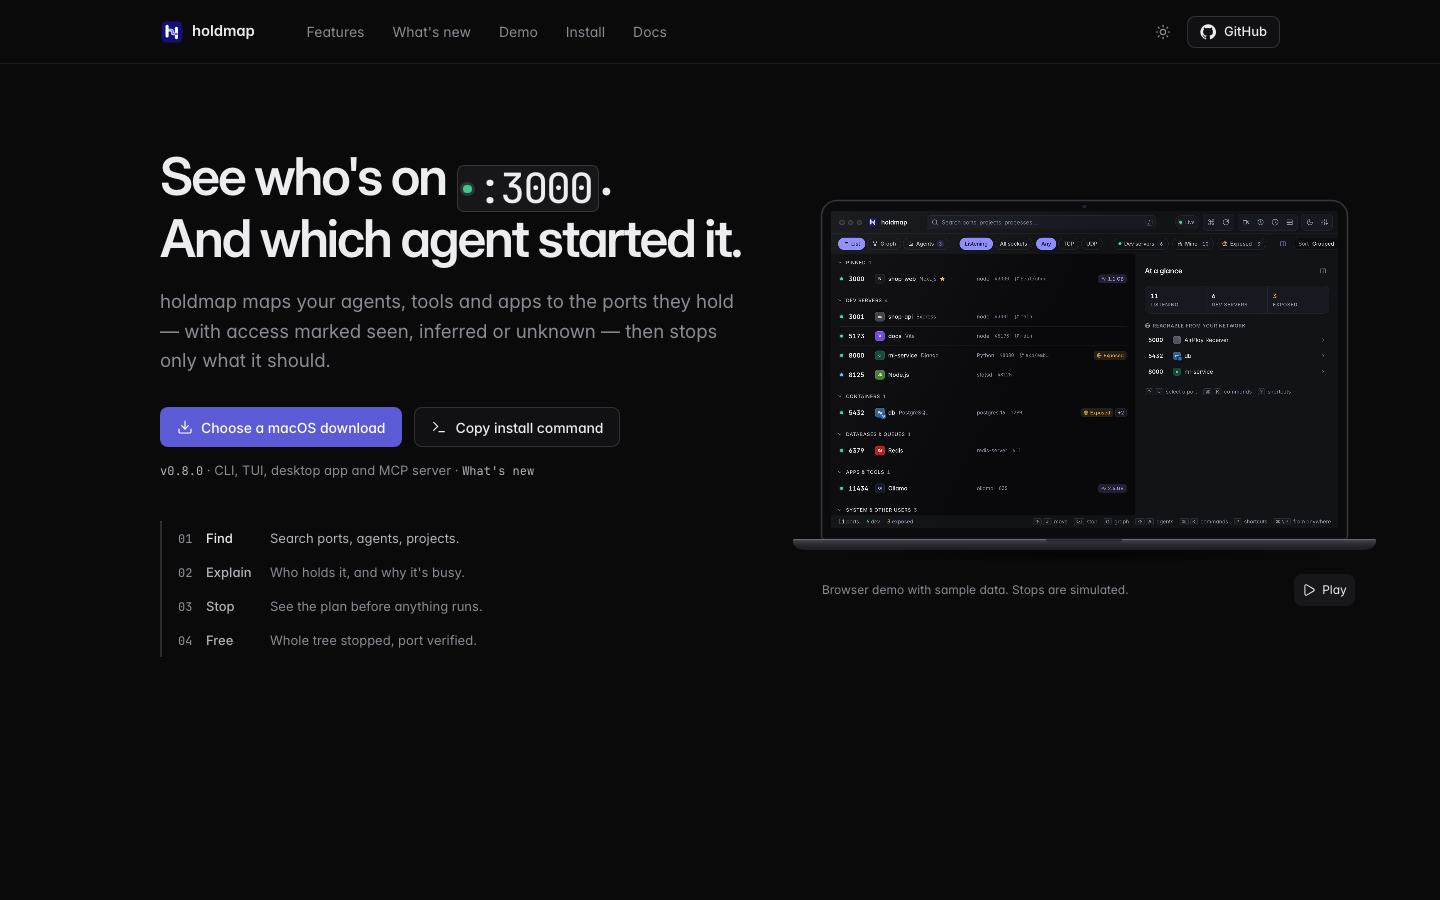
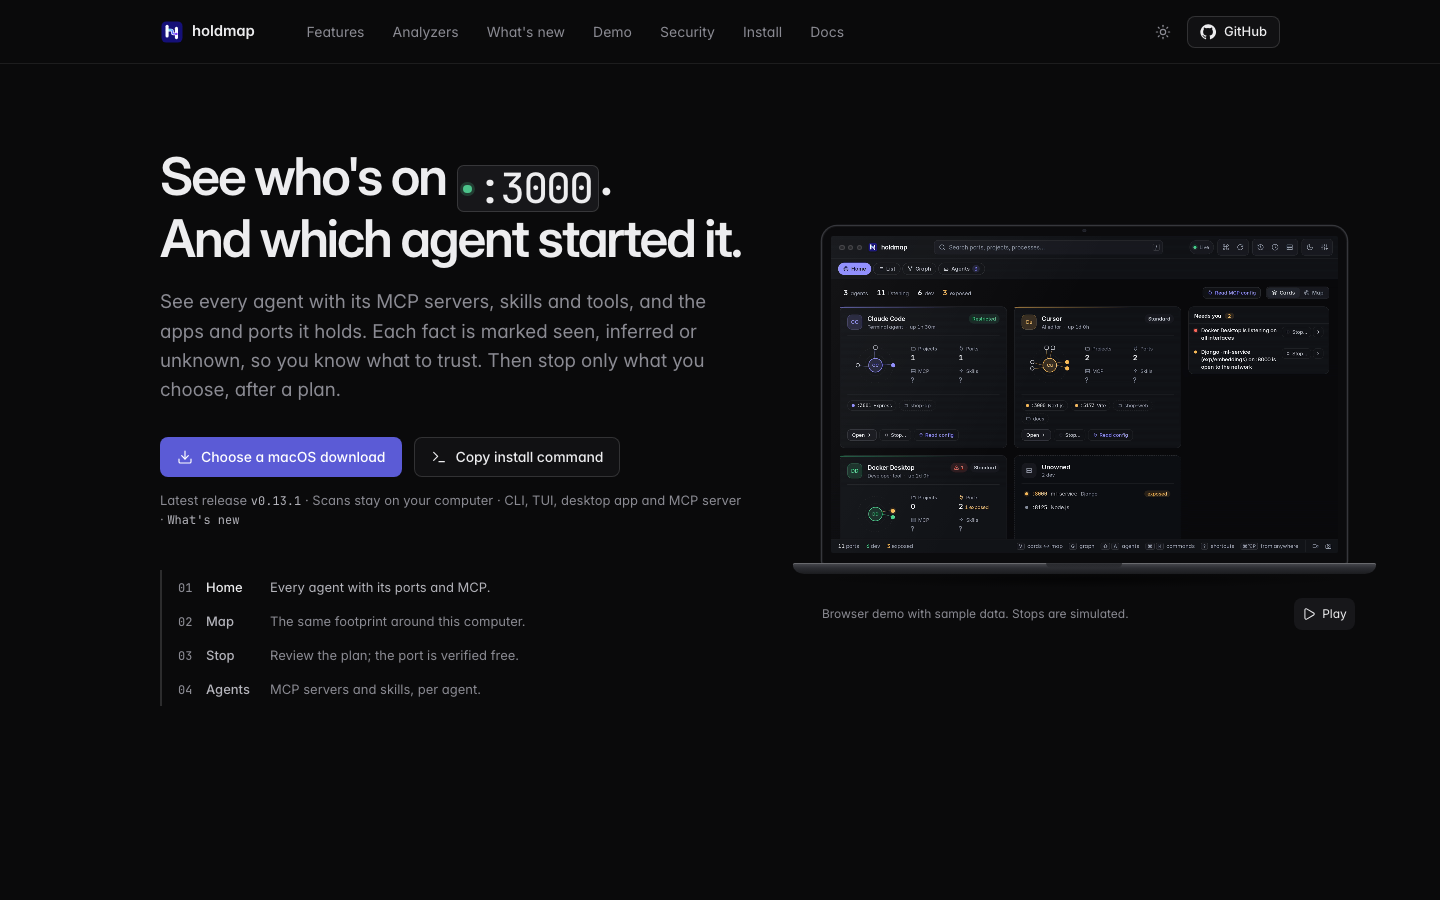
docs: align README and website with published 0.13.1

diff --git a/README.md b/README.md
@@ -34,6 +34,10 @@
 </p>
 
 <p align="center">
+  <img src="docs/screenshots/desktop-home-3d-light.png" width="860" alt="holdmap Home in 3D: agent districts with CPU and memory readings, runtime and configuration layers, and Needs you (sample data)" />
+</p>
+
+<p align="center">
   <img src="docs/screenshots/desktop-capability-inline-light.png" width="420" alt="MCP & skills: a skill card's details open inline right under it, with Scan with… (sample data)" />
   <img src="docs/screenshots/desktop-security-analyzers-light.png" width="420" alt="Agents → Security → Analyzers: cards with publisher, what each checks, on/off or installed state and one action; all off by default (sample data)" />
 </p>
@@ -63,16 +67,17 @@
   Add any MCP server in three steps: source, tools, review.
 - **Home, maps and graphs.** Agents as Cards or a Map with a Timeline and a **Needs you**
   list, the service graph with clusters, and agent flow.
-- **3D machine (Unreleased).** Home's **3D** layout builds the same agents as a model you can
+- **3D machine.** Home's **3D** layout builds the same agents as a model you can
   take apart: a district per agent with its tower, folders and ports, its processes and the
   configuration found on disk on trays above it, CPU gauges, network ripples and connections that
   move their way. Lenses show one concern at a time, with X-ray, a floor plan and a guided tour.
   Every link comes from what holdmap observed; nothing is joined by name.
-- **Menu bar and tray widget (Unreleased).** Small menu-bar items on macOS like a system
+- **Menu bar and tray widgets.** Small menu-bar items on macOS like a system
   monitor's (agents, what needs you, their CPU, dev servers, a CPU line or per-agent bars) and a
   badge on every OS. A click opens a panel: headline numbers, an agent CPU chart, a Needs you
   history, ports and port changes, and your dev servers and busiest agents. macOS, Windows and
-  Linux; stops still open the reviewed plan.
+  Linux. A fixed toolbar keeps **Open holdmap**, **Quick settings**, **Refresh** and **Quit**
+  within reach while readings scroll; stops still open the reviewed plan.
 - **Local capture.** Records only the holdmap window to MP4/GIF, plus PNG snapshots, of the whole window or a part you choose. Other apps and your desktop are never captured. Nothing is uploaded.
 - **Scriptable.** Every read command takes `--json`. holdmap has no product analytics.
 
@@ -267,8 +272,9 @@ See [SECURITY.md](SECURITY.md) for the full model, limits and how to report a vu
 
 ## Benchmarks & evaluation
 
-Measured on a Linux VM (8 vCPU Xeon, Debian 13). A Mac or Windows PC will differ, so rerun
-the scripts on yours. Details, the environment and how to reproduce are in
+Historical baseline measured with source version **0.9.0** on a Linux VM (8 vCPU Xeon,
+Debian 13); download sizes below are from **v0.9.0**, not the current release.
+A Mac or Windows PC will differ, so rerun the scripts on yours. Details, the environment and how to reproduce are in
 [docs/benchmarks.md](docs/benchmarks.md).
 
 | Measurement | Result |
@@ -303,7 +309,8 @@ scanners are on real skills.
 | [Agents, tools and apps](https://santoshshinde2012.github.io/holdmap/docs/agents/) | Agent inventory, MCP and skills, flow and recording |
 | [Analyzers](https://santoshshinde2012.github.io/holdmap/docs/analyzers/) | Opt-in scanners, presets, sandboxes and findings |
 | [Analyzers, end to end](docs/analyzers.md) | Steps to follow, a 3-minute demo and every screen |
-| [Desktop app](https://santoshshinde2012.github.io/holdmap/docs/desktop/) | Home, graph, shortcuts, capture and first open |
+| [Desktop app](https://santoshshinde2012.github.io/holdmap/docs/desktop/) | Home in Cards, Map or 3D, tray widgets, quick settings, capture and first open |
+| [What's new](https://santoshshinde2012.github.io/holdmap/docs/whats-new/) | Published release highlights and how to upgrade |
 | [MCP for AI agents](https://santoshshinde2012.github.io/holdmap/docs/mcp/) | Client setup, tools and stop confirmation |
 | [Project stacks](https://santoshshinde2012.github.io/holdmap/docs/projects/) | `.holdmap.toml`, `holdmap up` and `down` |
 | [Troubleshooting](https://santoshshinde2012.github.io/holdmap/docs/troubleshooting/) | PATH, hidden ports, updates, environment variables and uninstalling |

diff --git a/site/README.md b/site/README.md
@@ -17,7 +17,8 @@ GitHub Pages project sites cannot publish the host-root `robots.txt`: a file at
 or the sitemap can be submitted directly in Search Console. Search Console submission and
 indexing status are separate from this repository's build and deployment.
 
-With Node.js 22.12 or newer, install both the desktop and site dependencies, then run:
+With Node.js 22.23.4 or newer (the version in `.nvmrc`), install both the desktop and site
+dependencies, then run:
 
 ```sh
 cd apps/desktop
@@ -80,8 +81,9 @@ deployment identity or publish files.
 
 These captures show a production-mode website build at 1440×900, with a 390×900 mobile guide
 view. Release highlights use 1440×1100 desktop and 390×1800 mobile captures so all three cards
-and the publication note fit in one image. The release captures were taken while 0.9.0 was
-being prepared, so they show its pending status. The homepage's sample-data recording is paused on its first frame; no machine is scanned.
+and the publication note fit in one image. The captures show the published 0.13.1 release,
+including 3D Home, tray widgets and area capture. The homepage's sample-data recording is
+paused on its first frame; no machine is scanned.
 After building the site, refresh them with `node scripts/capture-screenshots.mjs` from `site/`.
 The script manages its own preview server and Chromium, waits for content and fonts, and checks
 themes, page errors, overflow and a 600 KB budget for each PNG.
@@ -97,11 +99,11 @@ Homepage, light:
 
 Release highlights and publication status, dark:
 
-![Release highlights show PNG snapshots, the readable graph and capability explorer with pending installer status](../docs/screenshots/site-release-dark.png)
+![Published 0.13.1 highlights show 3D Home, tray widgets and precise area capture](../docs/screenshots/site-release-dark.png)
 
 Release highlights and publication status, light:
 
-![Light-theme release highlights keep the pending release status separate from the published downloads](../docs/screenshots/site-release-light.png)
+![Light-theme 0.13.1 highlights link to the published release notes](../docs/screenshots/site-release-light.png)
 
 Mobile release highlights, light:
 

diff --git a/site/src/content/docs/whats-new.md b/site/src/content/docs/whats-new.md
@@ -10,8 +10,9 @@ notes for each version.
 
 ## 0.13.1
 
-The 0.13.0 tag was not published because its macOS release runner was retired. **0.13.1**
-uses supported runners and ships all the features and security fixes prepared for that tag.
+**0.13.1** is the first published release after 0.12.0. It includes the analyzer fixes
+prepared for 0.12.1 and all the features and security fixes prepared for 0.13.0; neither
+intermediate version was published.
 
 **holdmap 0.13.1** adds new ways to understand your agents and focus your workspace.
 
@@ -27,18 +28,13 @@ uses supported runners and ships all the features and security fixes prepared fo
   are remembered.
 - **Capture part of the window.** Draw or select an area for a local PNG or recording, move
   and resize it precisely, and review before saving. [Snapshots](../desktop/#take-a-png-snapshot).
-- **Security and polish.** The build replaces vulnerable deepmerge tooling; map labels settle
-  before showing, fresh menus close with Escape, and theme choices stay readable.
-
-## 0.12.1
-
-**holdmap 0.12.1** is a small fix release.
-
-- **Nothing to check is not a failure.** OSV with no pinned packages, and skill analyzers with no
-  skills, now finish cleanly with a short note on what to add. Real failures still show as
-  failures. [Analyzers](../analyzers/).
-- **MCP tool annotations are documented.** Each tool's description and four safety hints live in
-  one catalog file; see [MCP](../mcp/#tool-annotations). The tool list is unchanged.
+- **Analyzer fixes.** OSV with no pinned packages, and skill analyzers with no skills, finish
+  cleanly with a short note on what to add. Real failures still show as failures.
+  [Analyzers](../analyzers/).
+- **MCP tool annotations are documented.** Each tool's description and four safety hints live
+  in one catalog file; the sixteen-tool list is unchanged. [MCP](../mcp/#tool-annotations).
+- **Security and polish.** The build patches Windows updater ZIP parsing and replaces vulnerable
+  deepmerge tooling; map labels settle before showing, fresh menus close with Escape, and theme choices stay readable.
 
 ## 0.12.0
 

diff --git a/site/src/content/docs/desktop.md b/site/src/content/docs/desktop.md
@@ -16,7 +16,7 @@ Release-by-release changes are in [What's new](../whats-new/) and the
 ## Home and first open
 
 **Home** shows agents, listening ports, dev servers, exposed listeners and running MCP servers,
-as **Cards**, a **Map** or, in the current source (**Unreleased**), **3D**. Choose at the top
+as **Cards**, a **Map** or **3D** (available since 0.13.1). Choose at the top
 right or press `V` to cycle; the choice is remembered. Cards list each agent's projects, ports,
 MCP servers and skills; Map draws the same footprint around this computer with a collapsible
 **Timeline**. **Needs you** lists agents on all interfaces, root or elevated access, risky
@@ -31,7 +31,7 @@ Every panel on Home folds away and comes back, and Home remembers how you left i
 header), and each panel in it (click its heading). In 3D the parts list folds to a strip of
 agent buttons.
 
-**Current source (Unreleased):** **3D** builds the same machine as a model you can take apart,
+**3D** builds the same machine as a model you can take apart,
 drawn without perspective, so sizes and spacing read the same at the front and the back. Each
 agent has its own **district** on the board, a street apart from the next: its tower at the
 back, the folders it works in, then the ports it holds along the front edge, with its name on a
@@ -126,7 +126,7 @@ and clicking the Dock icon reopens the same window.
 
 ## Menu bar and tray
 
-**Current source (Unreleased):** holdmap's menu-bar or tray icon works like a small system
+holdmap's menu-bar or tray icon works like a small system
 monitor for your agents and dev servers, on macOS, Windows and Linux.
 
 - **Menu-bar items.** On macOS each reading is its own small menu-bar item, a short label over

diff --git a/CHANGELOG.md b/CHANGELOG.md
@@ -6,6 +6,12 @@ by [release-please](https://github.com/googleapis/release-please) from
 [Conventional Commits](https://www.conventionalcommits.org/en/v1.0.0/); see
 [Releasing](CONTRIBUTING.md#releasing).
 
+## [Unreleased]
+
+### Documentation
+
+- Align the README and desktop guide with published 0.13.1 features, fold unpublished 0.12.1 fixes into the correct release notes, refresh website screenshots and setup requirements, and label historical benchmark measurements.
+
 ## [0.13.1] - 2026-11-01
 
 The first published release after 0.12.0 brings all the features and security fixes prepared
